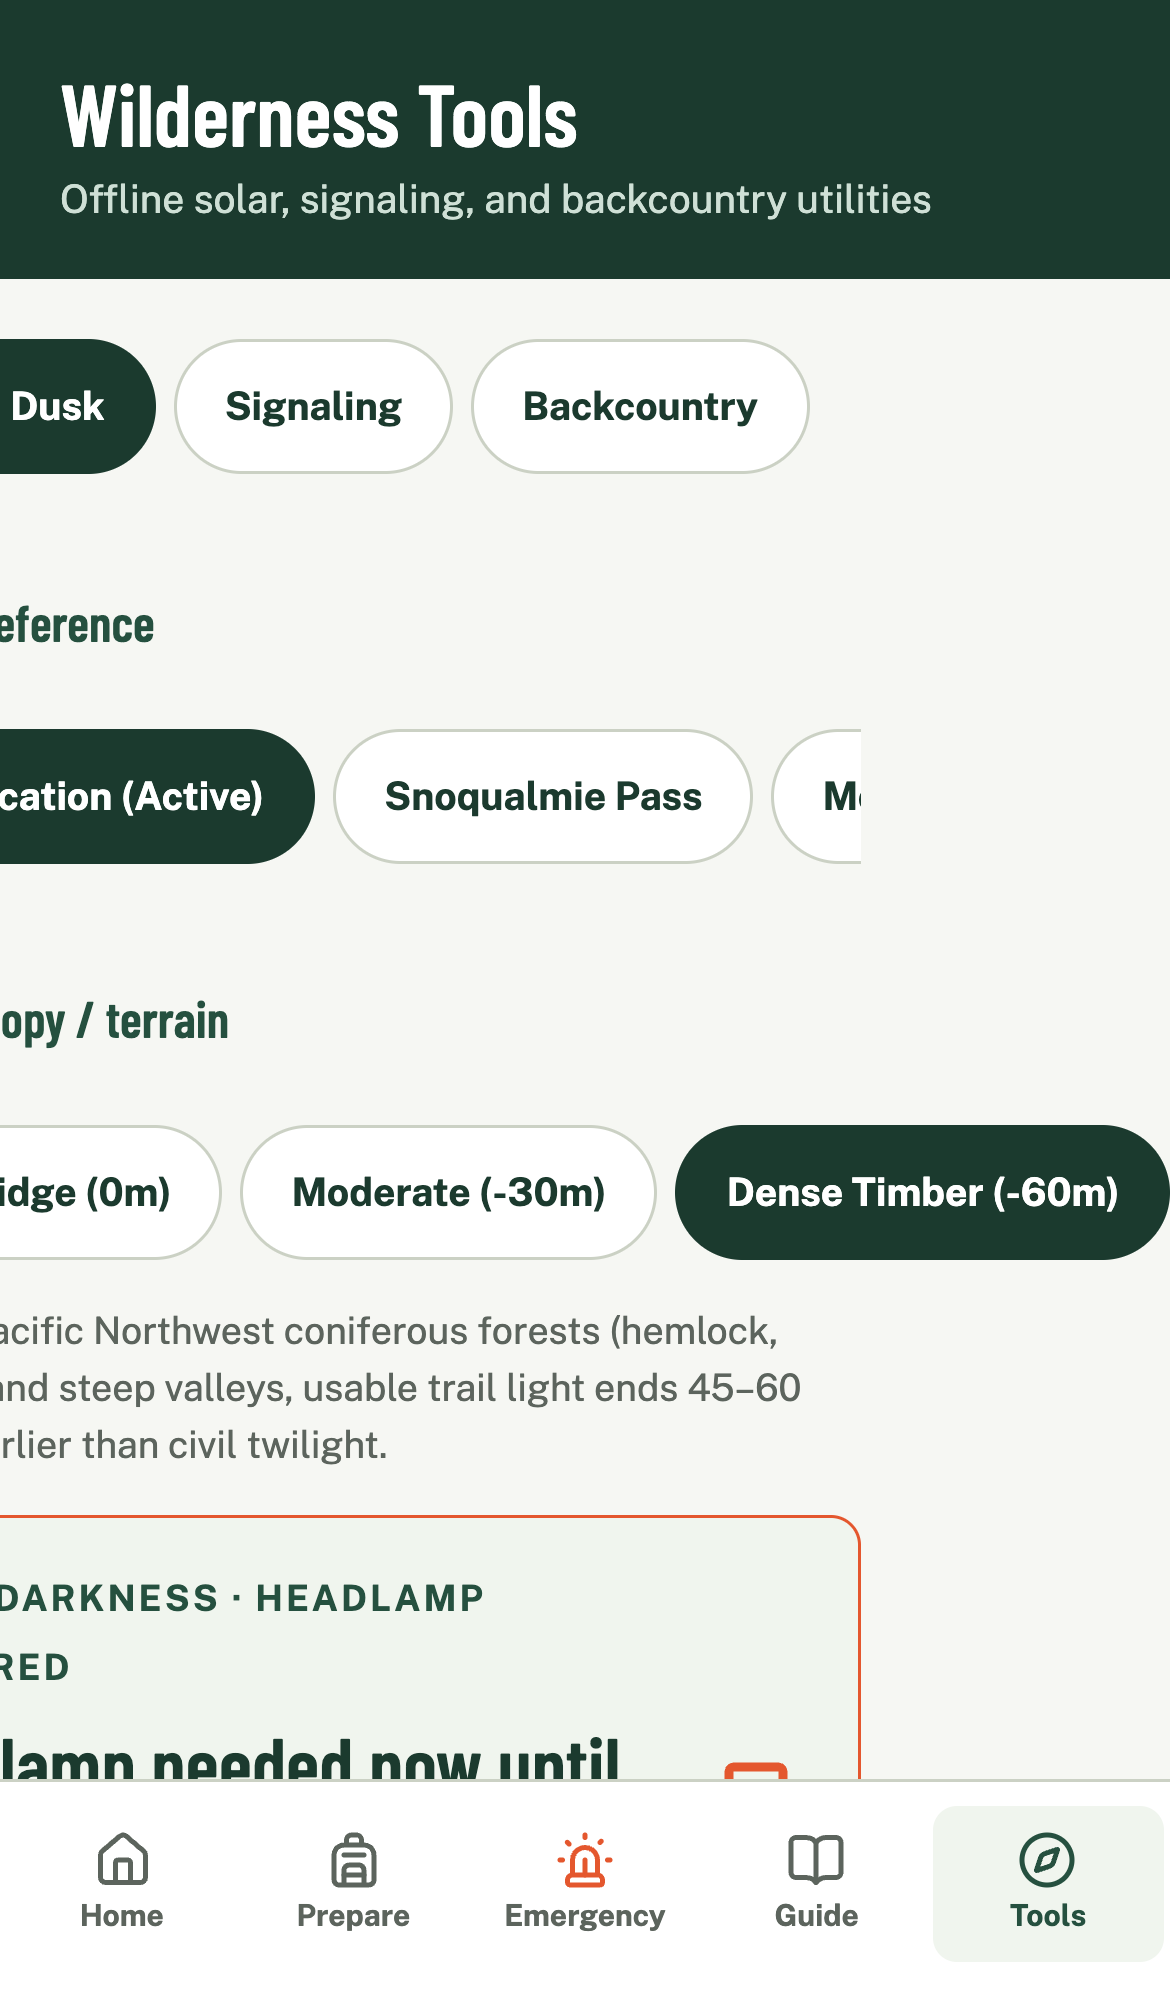
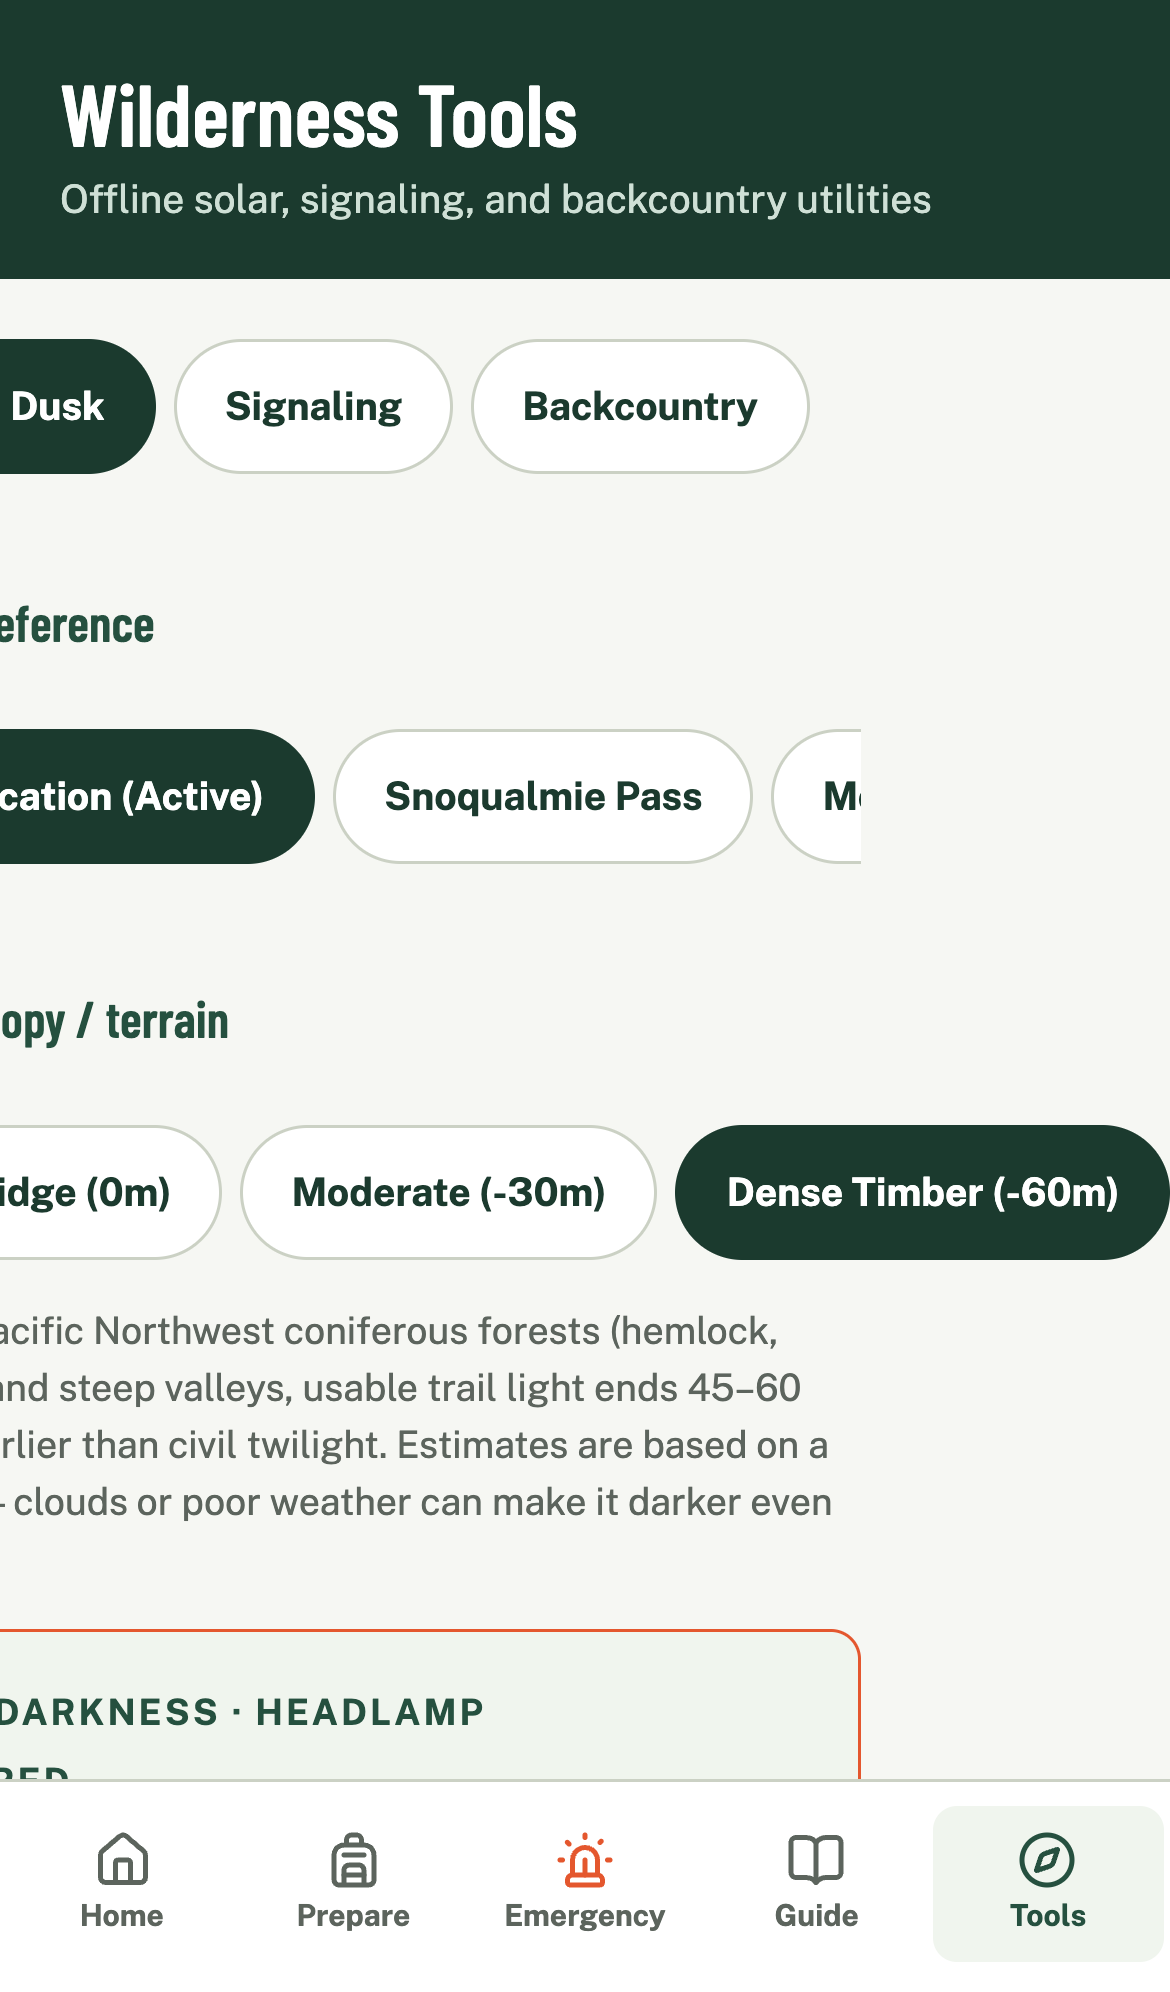
feat: add weather disclaimer to solar calculations and update UI to reflect clear-sky assumptions

Changed region(s): [[0.0, 0.7159, 0.7385, 0.9026], [0.6154, 0.8715, 0.6769, 0.9026], [0.7077, 0.8092, 0.7385, 0.8404]]

diff --git a/src/app/tools.tsx b/src/app/tools.tsx
@@ -12,6 +12,7 @@ import { DeviceMotion } from "expo-sensors";
 import { useAudioPlayer } from "expo-audio";
 import {
   AlertTriangle,
+  Cloud,
   Compass,
   Eye,
   Flashlight,
@@ -374,7 +375,8 @@ export default function ToolsScreen() {
           <Note>
             In dense Pacific Northwest coniferous forests (hemlock, cedar, fir)
             and steep valleys, usable trail light ends 45–60 minutes earlier than
-            civil twilight.
+            civil twilight. Estimates are based on a clear sky — clouds or poor
+            weather can make it darker even earlier.
           </Note>
 
           {/* Primary Countdown / Status Banner */}
@@ -426,6 +428,23 @@ export default function ToolsScreen() {
                 ) : (
                   <Sunset size={36} color={C.orange} />
                 )}
+              </View>
+
+              <View
+                style={{
+                  borderTopWidth: 1,
+                  borderTopColor: C.line,
+                  paddingTop: 8,
+                  marginTop: 10,
+                  flexDirection: "row",
+                  alignItems: "flex-start",
+                  gap: 6,
+                }}
+              >
+                <Cloud size={14} color={C.muted} style={{ marginTop: 2 }} />
+                <T style={{ flex: 1, fontSize: 12, color: C.muted, lineHeight: 16 }}>
+                  {solar.weatherDisclaimer}
+                </T>
               </View>
             </Card>
           )}
@@ -548,6 +567,19 @@ export default function ToolsScreen() {
               <T style={{ color: C.muted }}>Total Daylight Duration</T>
               <T style={{ fontFamily: fonts.bold }}>
                 {formatDurationMinutes(solar.dayLengthMinutes)}
+              </T>
+            </View>
+
+            <View
+              style={{
+                borderTopWidth: 1,
+                borderTopColor: C.line,
+                paddingTop: 8,
+                marginTop: 2,
+              }}
+            >
+              <T style={{ fontSize: 12, color: C.muted, lineHeight: 16 }}>
+                Table calculations assume clear skies. Clouds, smoke, or poor weather make darkness fall earlier.
               </T>
             </View>
           </Card>

diff --git a/tests/solar.test.ts b/tests/solar.test.ts
@@ -5,6 +5,7 @@ import {
   formatDurationMinutes,
   getCanopyOffsetMinutes,
   PNW_TRAILHEAD_PRESETS,
+  SOLAR_WEATHER_DISCLAIMER,
 } from "../src/lib/solar";
 
 test("solar calculations accurately determine sunrise and sunset for PNW", () => {
@@ -206,9 +207,20 @@ test("24-hour headlamp notification logic distinguishes daylight from nighttime 
   );
 });
 
+test("solar calculations include clear-sky and weather disclaimer", () => {
+  const times = calculateSolarTimes(47.6062, -122.3321);
+  assert.equal(times.weatherDisclaimer, SOLAR_WEATHER_DISCLAIMER);
+  assert.match(times.weatherDisclaimer, /based on a clear sky/i);
+  assert.match(
+    times.weatherDisclaimer,
+    /clouds or poor weather can make it darker even earlier/i,
+  );
+});
+
 test("invalid coordinates reject invalid bounds", () => {
   assert.throws(() => calculateSolarTimes(95, 0));
   assert.throws(() => calculateSolarTimes(0, 195));
   assert.throws(() => calculateSolarTimes(NaN, 0));
 });
+
 

diff --git a/src/lib/solar.ts b/src/lib/solar.ts
@@ -90,10 +90,17 @@ export interface SolarTimes {
   headlampNeededNow: boolean;
   headlampStatusHeadline: string;
   headlampStatusSubtext: string;
+  weatherDisclaimer: string;
   minutesUntilSunset: number | null;
   minutesUntilForestDusk: number | null;
   minutesUntilNextSunrise: number | null;
 }
+
+/**
+ * Standard disclaimer noting that dusk calculations are clear-sky models.
+ */
+export const SOLAR_WEATHER_DISCLAIMER =
+  "Estimates are based on a clear sky. Clouds or poor weather can make it darker even earlier.";
 
 /**
  * Returns canopy loss offset in minutes.
@@ -468,6 +475,7 @@ export function calculateSolarTimes(
     headlampNeededNow,
     headlampStatusHeadline,
     headlampStatusSubtext,
+    weatherDisclaimer: SOLAR_WEATHER_DISCLAIMER,
     minutesUntilSunset,
     minutesUntilForestDusk,
     minutesUntilNextSunrise,

diff --git a/tests/e2e/app.spec.ts b/tests/e2e/app.spec.ts
@@ -443,6 +443,9 @@ test("wilderness tools screen navigates, calculates forest dusk, runs signaling 
     page.getByText(/TRAIL LIGHT REMAINING|HEADLAMP REQUIRED/),
   ).toBeVisible();
   await expect(page.getByText(/Headlamp needed/i)).toBeVisible();
+  await expect(
+    page.getByText(/Estimates are based on a clear sky/i).first(),
+  ).toBeVisible();
   await expect(page.getByText("Astronomical solar table")).toBeVisible();
   await expect(page.getByText("Civil Twilight (Open Dusk)")).toBeVisible();
 
